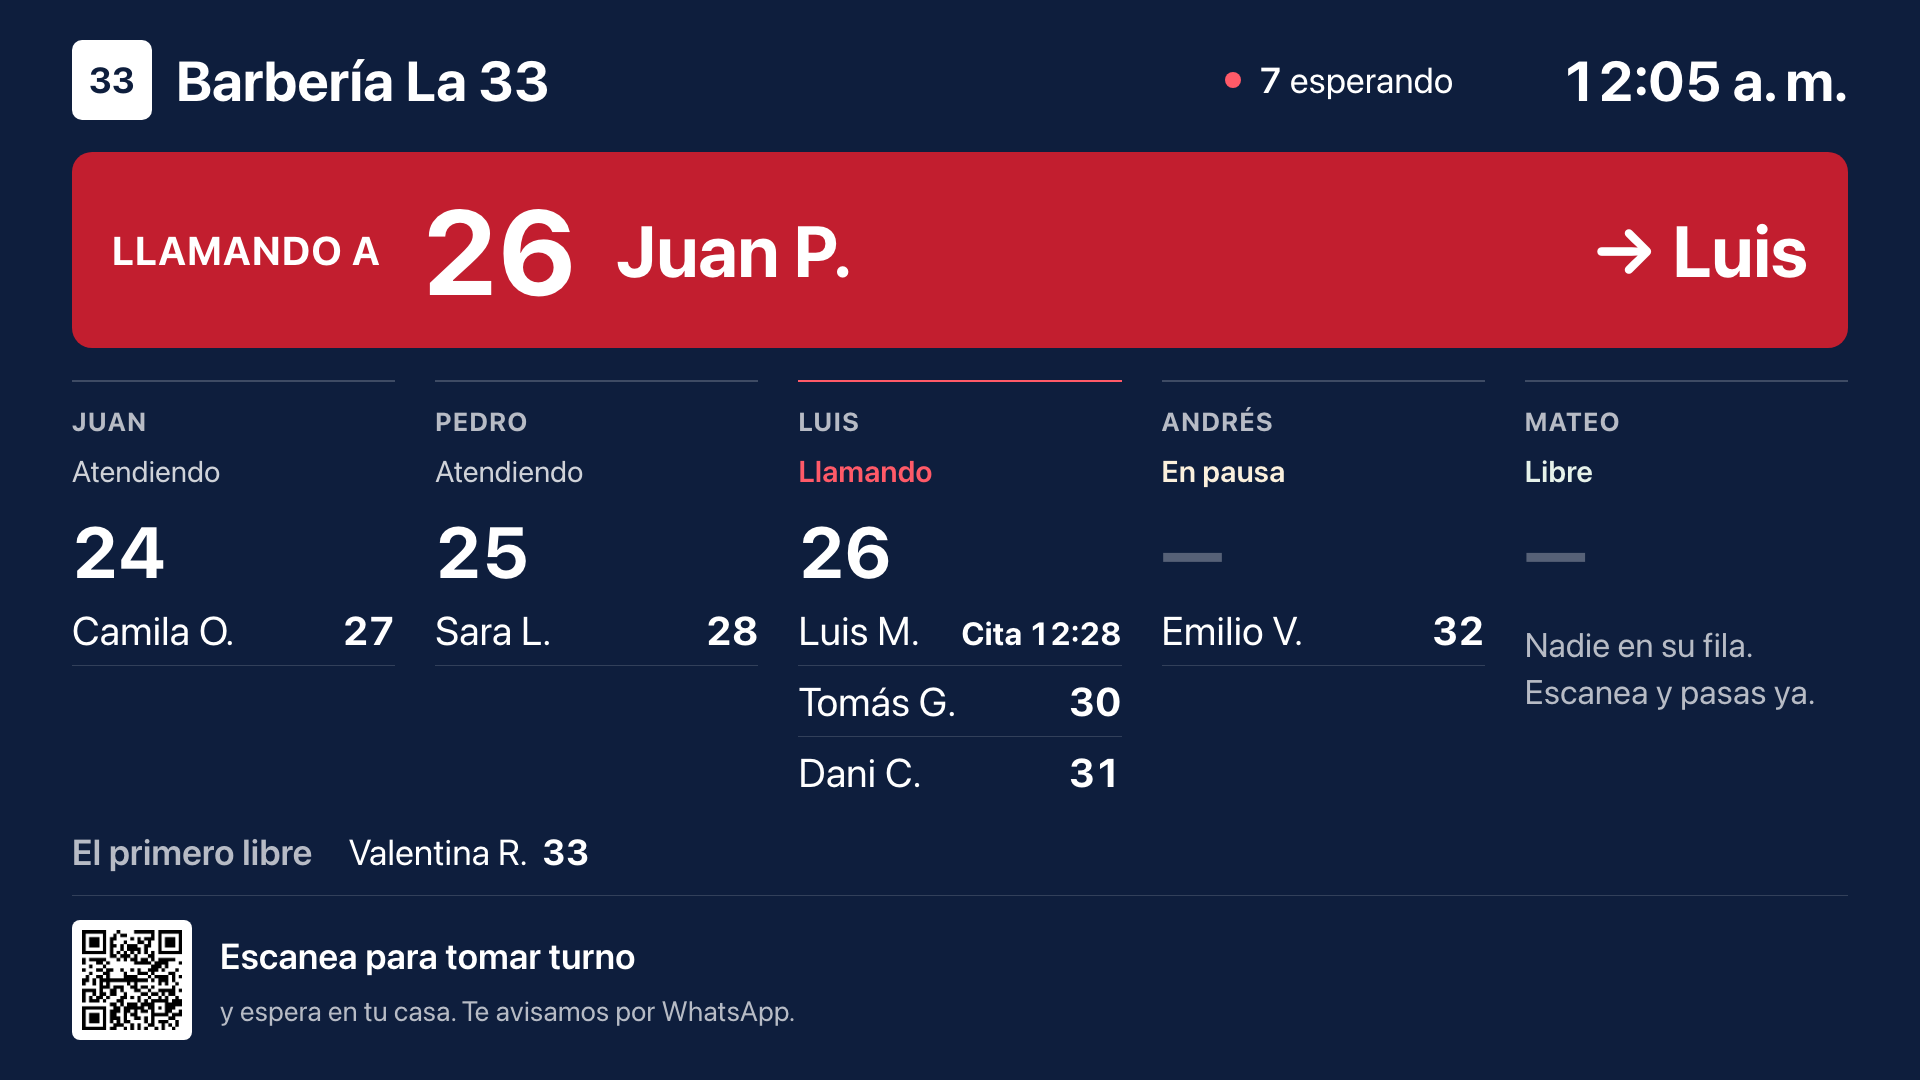
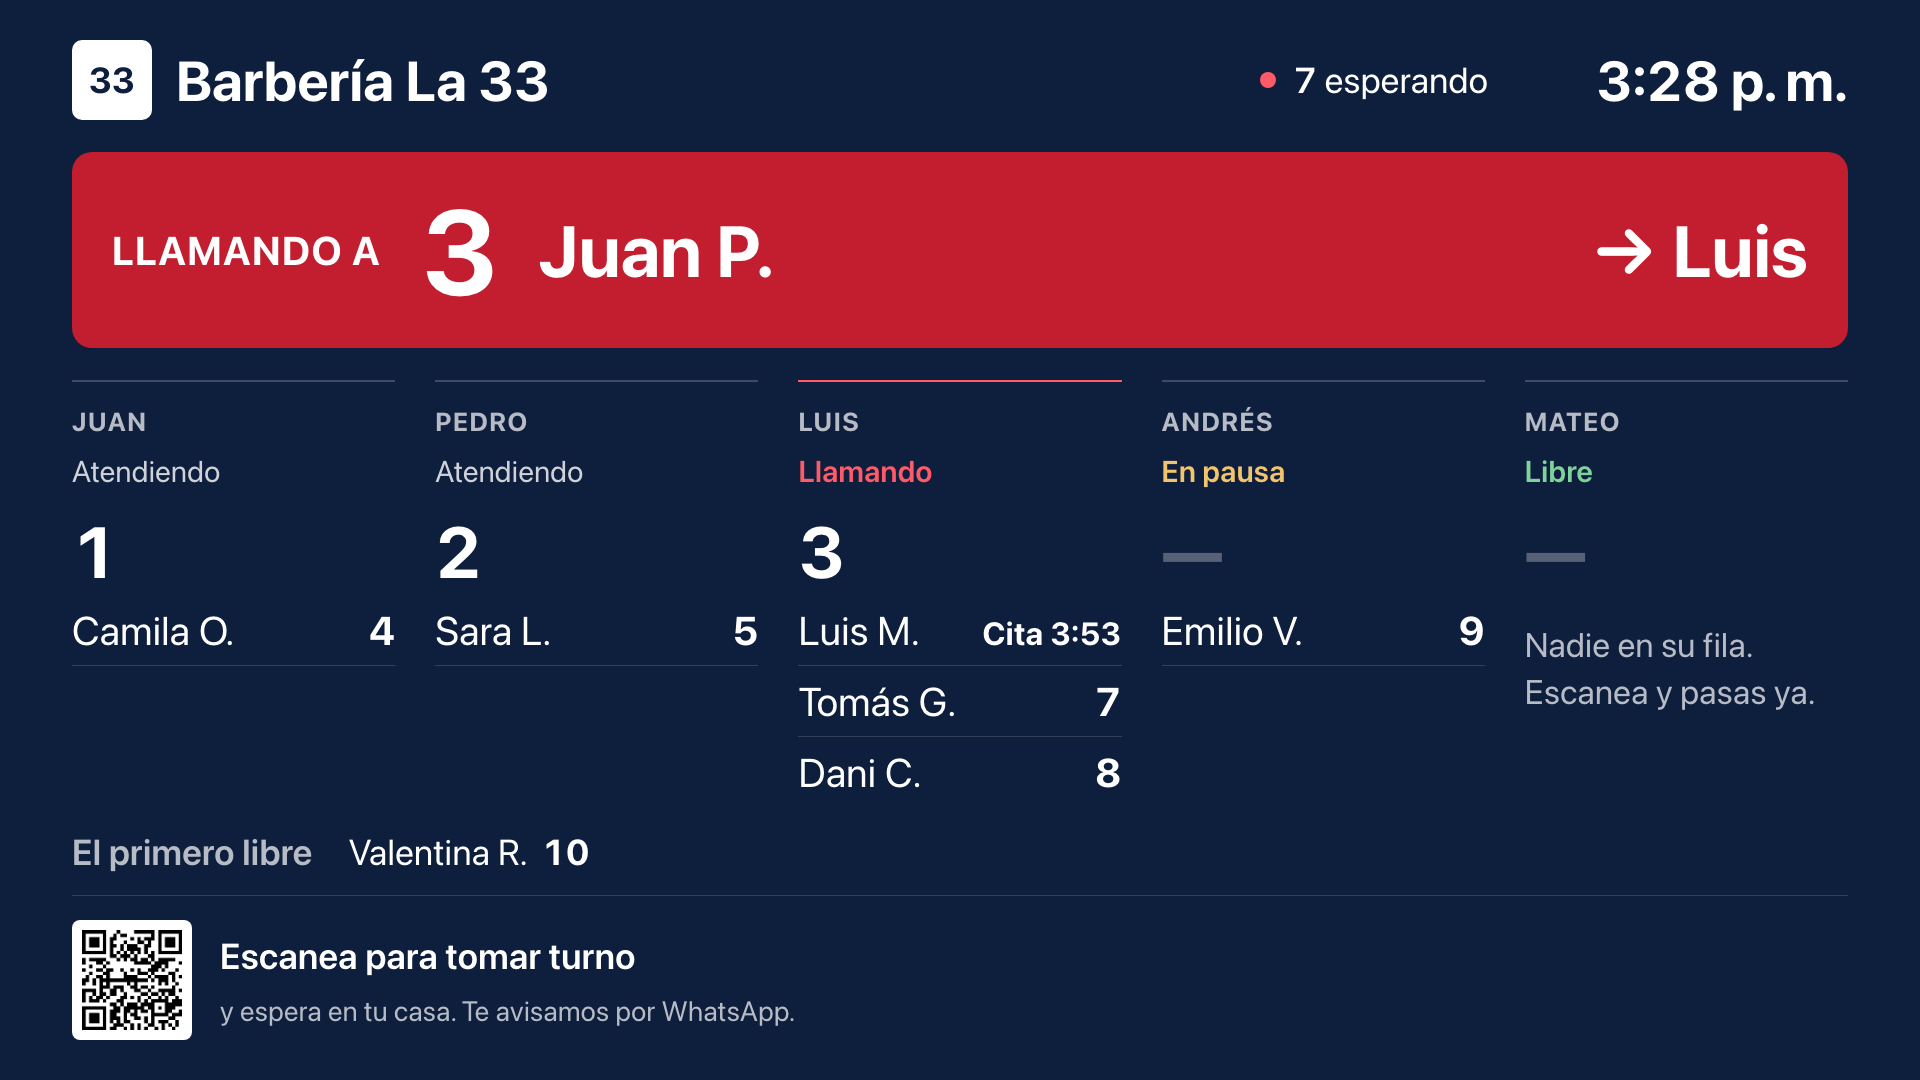
T-176: En pausa y Libre con los colores del tablero en el televisor
Tokens nuevos warn-on-brand (#F2C46D) y ok-on-brand (#7FD39A), tomados del
tablero Cliente-Pantalla, con su contraste sobre brand probado (10,1 y 9,2).
Decisión de Henry del 2026-11-11; design §22.1 y §22.7 al día.

diff --git a/tests/unit/screen-board.test.tsx b/tests/unit/screen-board.test.tsx
@@ -99,6 +99,13 @@ describe("T-176 pantalla del televisor (REQ-078.25, REQ-013.4)", () => {
     expect(barberScreenState(VIEW.barbers[3])).toBe("Libre");
   });
 
+  it("REQ-078.25 En pausa y Libre con los colores del tablero sobre azul marino", () => {
+    const h = render(VIEW);
+    expect(h).toMatch(/class="[^"]*text-warn-on-brand[^"]*">En pausa</);
+    expect(h).toMatch(/class="[^"]*text-ok-on-brand[^"]*">Libre</);
+    expect(h).toMatch(/class="[^"]*text-accent-on-brand[^"]*">Llamando</);
+  });
+
   it('REQ-078.25 los siguientes van con su número o "Cita <hora>"', () => {
     expect(nextLabel({ name: "Tomás G.", number: 17, scheduledAt: null })).toBe("17");
     expect(nextLabel({ name: "Luis M.", number: 21, scheduledAt: "2026-11-09T21:15:00Z" })).toBe(

diff --git a/src/app/globals.css b/src/app/globals.css
@@ -21,6 +21,8 @@
   --color-accent-ink: #ffffff;
   --color-accent-soft: #fbeaec; /* fondo de alerta */
   --color-accent-on-brand: #ff5a68; /* punto "en vivo" sobre azul marino */
+  --color-warn-on-brand: #f2c46d; /* "En pausa" sobre azul marino (televisor) */
+  --color-ok-on-brand: #7fd39a; /* "Libre" sobre azul marino (televisor) */
   --color-called: #c21e2f; /* "¡Es tu turno!" y turno llamado */
   --color-danger: #a8182a; /* texto y contorno destructivo, errores */
   --color-ok: #1e6b3a; /* terminado, cuadra */

diff --git a/src/components/queue/ScreenBoard.tsx b/src/components/queue/ScreenBoard.tsx
@@ -59,8 +59,8 @@ export function ScreenBoard({
 const STATE_CLASS: Record<BarberScreenState, string> = {
   Atendiendo: "text-brand-ink/80",
   Llamando: "text-accent-on-brand font-semibold",
-  "En pausa": "text-warn-soft font-semibold",
-  Libre: "text-ok-soft font-semibold",
+  "En pausa": "text-warn-on-brand font-semibold",
+  Libre: "text-ok-on-brand font-semibold",
 };
 
 /** Lo que se ve, sin estado: se prueba con `renderToStaticMarkup`. */

diff --git a/tests/unit/design-tokens.test.ts b/tests/unit/design-tokens.test.ts
@@ -17,6 +17,8 @@ const PAIRS: [string, string, number][] = [
   ["accent-ink", "accent", 4.5],
   ["accent-ink", "called", 4.5],
   ["accent-on-brand", "brand", 4.5],
+  ["warn-on-brand", "brand", 4.5], // "En pausa" en el televisor (T-176, tablero Cliente-Pantalla)
+  ["ok-on-brand", "brand", 4.5], // "Libre" en el televisor
   ["danger", "card", 4.5],
   ["danger", "accent-soft", 4.5],
   ["ok", "card", 4.5],

diff --git a/specs/traceability.md b/specs/traceability.md
@@ -1,6 +1,6 @@
 # Matriz de trazabilidad
 
-> Generada por `scripts/traceability.ts` el 2026-11-10.
+> Generada por `scripts/traceability.ts` el 2026-11-11.
 > Estado: **cubierto** = tareas hechas y prueba existente · **prueba escrita** = prueba existe, tarea sin cerrar · **sin prueba** = falta.
 
 | CA | Requisito | Tareas | Pruebas | Estado |
@@ -429,7 +429,7 @@
 | REQ-078.13 | Sistema visual nuevo | T-160 (hecha), T-161 (hecha), T-162 (hecha), T-163 (hecha), T-164 (hecha), T-165 (hecha), T-166 (hecha), T-167 (hecha), T-169 (hecha), T-170 (hecha), T-171 (hecha), T-177 (hecha), T-178 (hecha), T-179 (hecha), T-180 (hecha), T-181 (hecha), T-172 (hecha), T-173 (hecha), T-174 (hecha), T-175 (hecha), T-176 (hecha), T-168 (pendiente) | ui-components.spec.ts, visual-cliente.spec.ts, ui-components.test.tsx | prueba escrita |
 | REQ-078.14 | Sistema visual nuevo | T-160 (hecha), T-161 (hecha), T-162 (hecha), T-163 (hecha), T-164 (hecha), T-165 (hecha), T-166 (hecha), T-167 (hecha), T-169 (hecha), T-170 (hecha), T-171 (hecha), T-177 (hecha), T-178 (hecha), T-179 (hecha), T-180 (hecha), T-181 (hecha), T-172 (hecha), T-173 (hecha), T-174 (hecha), T-175 (hecha), T-176 (hecha), T-168 (pendiente) | lint-design.test.ts, my-ticket.test.tsx, public-view.test.ts | prueba escrita |
 | REQ-078.15 | Sistema visual nuevo | T-160 (hecha), T-161 (hecha), T-162 (hecha), T-163 (hecha), T-164 (hecha), T-165 (hecha), T-166 (hecha), T-167 (hecha), T-169 (hecha), T-170 (hecha), T-171 (hecha), T-177 (hecha), T-178 (hecha), T-179 (hecha), T-180 (hecha), T-181 (hecha), T-172 (hecha), T-173 (hecha), T-174 (hecha), T-175 (hecha), T-176 (hecha), T-168 (pendiente) | pwa-usability.spec.ts, visual-acceso.spec.ts, visual-barbero.spec.ts, visual-cliente.spec.ts, visual-dueno-config.spec.ts, visual-dueno-fila-caja.spec.ts, visual-dueno-modulos.spec.ts, visual-helpers.ts, public-view.test.ts | prueba escrita |
-| REQ-078.16 | Sistema visual nuevo | T-160 (hecha), T-161 (hecha), T-162 (hecha), T-163 (hecha), T-164 (hecha), T-165 (hecha), T-166 (hecha), T-167 (hecha), T-169 (hecha), T-170 (hecha), T-171 (hecha), T-177 (hecha), T-178 (hecha), T-179 (hecha), T-180 (hecha), T-181 (hecha), T-172 (hecha), T-173 (hecha), T-174 (hecha), T-175 (hecha), T-176 (hecha), T-168 (pendiente) | barbero-otros.spec.ts, barbero-tablero.spec.ts, screen.spec.ts, barber-nav.test.tsx, my-numbers.test.ts, screen-board.test.tsx, time.test.ts, traceability.test.ts, 0070_barber_screens.sql | prueba escrita |
+| REQ-078.16 | Sistema visual nuevo | T-160 (hecha), T-161 (hecha), T-162 (hecha), T-163 (hecha), T-164 (hecha), T-165 (hecha), T-166 (hecha), T-167 (hecha), T-169 (hecha), T-170 (hecha), T-171 (hecha), T-177 (hecha), T-178 (hecha), T-179 (hecha), T-180 (hecha), T-181 (hecha), T-172 (hecha), T-173 (hecha), T-174 (hecha), T-175 (hecha), T-176 (hecha), T-168 (pendiente) | barbero-otros.spec.ts, barbero-tablero.spec.ts, screen.spec.ts, barber-nav.test.tsx, my-numbers.test.ts, screen-board.test.tsx, time.test.ts, 0070_barber_screens.sql | prueba escrita |
 | REQ-078.17 | Sistema visual nuevo | T-160 (hecha), T-161 (hecha), T-162 (hecha), T-163 (hecha), T-164 (hecha), T-165 (hecha), T-166 (hecha), T-167 (hecha), T-169 (hecha), T-170 (hecha), T-171 (hecha), T-177 (hecha), T-178 (hecha), T-179 (hecha), T-180 (hecha), T-181 (hecha), T-172 (hecha), T-173 (hecha), T-174 (hecha), T-175 (hecha), T-176 (hecha), T-168 (pendiente) | barbero-tablero.spec.ts, queue-actions.test.ts, 0069_call_expected.sql | prueba escrita |
 | REQ-078.18 | Sistema visual nuevo | T-160 (hecha), T-161 (hecha), T-162 (hecha), T-163 (hecha), T-164 (hecha), T-165 (hecha), T-166 (hecha), T-167 (hecha), T-169 (hecha), T-170 (hecha), T-171 (hecha), T-177 (hecha), T-178 (hecha), T-179 (hecha), T-180 (hecha), T-181 (hecha), T-172 (hecha), T-173 (hecha), T-174 (hecha), T-175 (hecha), T-176 (hecha), T-168 (pendiente) | barbero-tablero.spec.ts | prueba escrita |
 | REQ-078.19 | Sistema visual nuevo | T-160 (hecha), T-161 (hecha), T-162 (hecha), T-163 (hecha), T-164 (hecha), T-165 (hecha), T-166 (hecha), T-167 (hecha), T-169 (hecha), T-170 (hecha), T-171 (hecha), T-177 (hecha), T-178 (hecha), T-179 (hecha), T-180 (hecha), T-181 (hecha), T-172 (hecha), T-173 (hecha), T-174 (hecha), T-175 (hecha), T-176 (hecha), T-168 (pendiente) | barbero-tablero.spec.ts | prueba escrita |

diff --git a/specs/design.md b/specs/design.md
@@ -2628,6 +2628,8 @@ aparece.
 | `accent` / `accent-ink` | #C21E2F / #FFFFFF | **solo** atención ahora | 5,96 |
 | `accent-soft` | #FBEAEC | fondo de alerta | `danger` encima: 6,39 |
 | `accent-on-brand` | #FF5A68 | punto "en vivo" sobre azul marino | 5,44 |
+| `warn-on-brand` | #F2C46D | "En pausa" en el televisor (sobre azul marino, T-176) | 10,14 |
+| `ok-on-brand` | #7FD39A | "Libre" en el televisor (sobre azul marino, T-176) | 9,19 |
 | `called` | #C21E2F | "¡Es tu turno!" y turno llamado (antes era el amarillo #fef3c7) | 5,96 |
 | `danger` | #A8182A | texto y contorno destructivo, errores | 6,39 sobre `accent-soft` |
 | `ok` / `ok-soft` | #1E6B3A / #E6F2EA | terminado, cuadra | 6,52 |
@@ -2927,8 +2929,8 @@ tiene prueba unitaria.
    nombre corto y "→ <barbero>". Sin llamado reciente, el espacio queda vacío (no salta lo de
    abajo). Con movimiento reducido, sin parpadeo.
 3. Una columna por barbero (máx. 5): raya arriba (`accent-on-brand` si está llamando), "<BARBERO>"
-   en mayúsculas, estado (Atendiendo, Llamando en `accent-on-brand`, En pausa en `warn-soft`, Libre
-   en `ok-soft`), el número que atiende (72 px) o "—", y los siguientes como filas "Nombre P.
+   en mayúsculas, estado (Atendiendo, Llamando en `accent-on-brand`, En pausa en `warn-on-brand`,
+   Libre en `ok-on-brand`; los colores del tablero, decisión de Henry del 2026-11-11), el número que atiende (72 px) o "—", y los siguientes como filas "Nombre P.
    <número>" o "Cita <hora>". Libre sin fila: "Nadie en su fila. Escanea y pasas ya."
 4. "El primero libre": fila bajo las columnas con los siguientes sin barbero (REQ-013.1).
 5. Abajo: QR 120×120 en blanco, "Escanea para tomar turno" y "y espera en tu casa. Te avisamos por

diff --git a/specs/tasks.md b/specs/tasks.md
@@ -2587,8 +2587,9 @@ T-088 y T-089 quedan libres (reservados para el Hito 8 si hace falta partir una 
   hasta entonces), y `supabase/tests/0011_screen.sql` lee `anyone -> 0 ->> 'name'`. (2) Medidas en
   `em` sobre `min(vw, vh)`: el tablero a 1920×1080 y sin desplazamiento en un televisor de 1280×720.
   (3) Con el local cerrado, "Cerrado" en lugar de "● N esperando" (lo hacía antes, se conserva).
-  (4) "En pausa" y "Libre" usan `warn-soft`/`ok-soft` como dice §22.7; en el tablero se ven
-  amarillo y verde más intensos (para que Henry lo compare). La 0071 la sube Henry.
+  (4) "En pausa" y "Libre" usaban `warn-soft`/`ok-soft` (§22.7); el 2026-11-11 Henry pidió los
+  colores del tablero: tokens nuevos `warn-on-brand` (#F2C46D) y `ok-on-brand` (#7FD39A), con su
+  contraste en `design-tokens.test.ts` y §22.1/§22.7 al día. La 0071 ya está en producción.
 
 ### [ ] T-168 · Validación Hito 16
 - REQ: REQ-078
